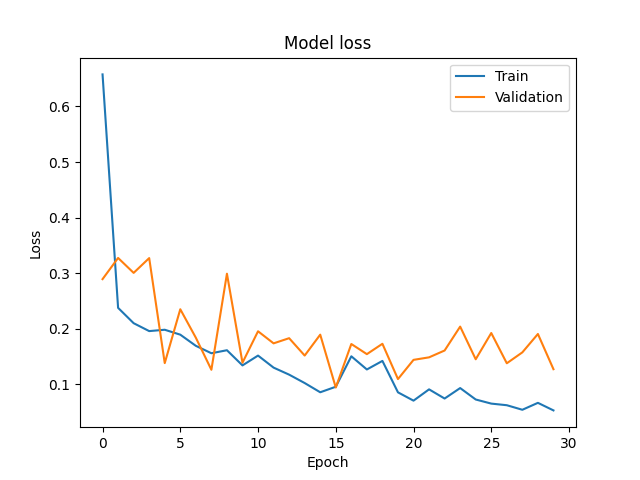
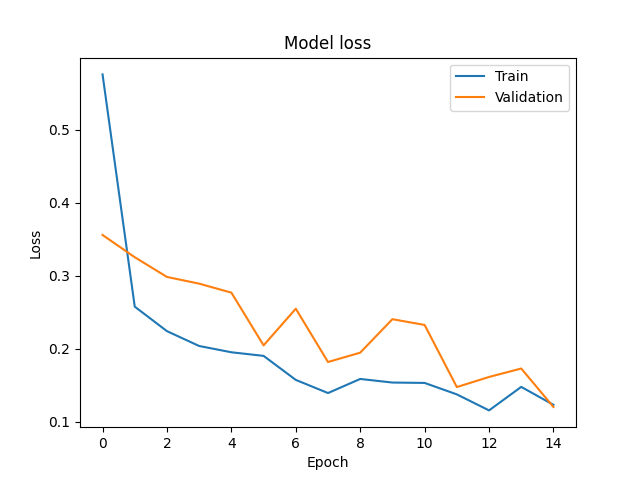
Hyperparameter tuning

diff --git a/binary_classification.py b/binary_classification.py
@@ -1,21 +1,21 @@
 import pandas as pd
 import numpy as np
 from tensorflow.keras.models import Sequential
-from tensorflow.keras.layers import Dense
+from tensorflow.keras.layers import Dense, Dropout
 from keras.optimizers import Adam
 import matplotlib.pyplot as plt
 from sklearn.utils.class_weight import compute_class_weight
 from sklearn.metrics import classification_report, confusion_matrix
 import seaborn as sns
-# from sklearn.ensemble import RandomForestClassifier
 
-NO_EPOCHS = 20
+NO_EPOCHS = 15
 BATCH_SIZE = 16
 LOSS = 'binary_crossentropy'
 LEARNING_RATE = 0.001
 METRICS = ['accuracy']
 ACTIVATION = ['relu', 'sigmoid']
 VERBOSE = 1
+DOPOUT_RATE = 0.2
 
 def generate_confusion_matrix(y_true, y_pred, filename):
     plt.clf()
@@ -30,9 +30,8 @@ def generate_confusion_matrix(y_true, y_pred, filename):
 def create_model(input_dim):
     model = Sequential()
     model.add(Dense(16, input_dim=input_dim, activation=ACTIVATION[0]))  # Input layer
-    model.add(Dense(32, activation=ACTIVATION[0]))  # Hidden layer
     model.add(Dense(16, activation=ACTIVATION[0]))  # Hidden layer
-    model.add(Dense(16, activation=ACTIVATION[0]))  # Hidden layer
+    model.add(Dropout(DOPOUT_RATE))  # Dropout layer
     model.add(Dense(1, activation=ACTIVATION[1]))  # Output layer
 
     model.compile(loss=LOSS, optimizer=Adam(learning_rate=LEARNING_RATE), metrics=METRICS)
@@ -82,7 +81,7 @@ def binary_classification(no_clusters, target_cluster, filename):
     model = create_model(60)
     model = train_model(no_clusters, target_cluster, model, x_train, y_train, x_val, y_val)
 
-    model.save(filename + 'binary_classif.h5')
+    model.save(filename + 'binary_classif.keras')
 
     loss, accuracy = model.evaluate(x_test, y_test, verbose=VERBOSE)
     print(f'Test Loss: {loss}, Test Accuracy: {accuracy}')
@@ -93,18 +92,20 @@ def binary_classification(no_clusters, target_cluster, filename):
     # Threshold predictions to convert probabilities to binary predictions
     binary_predictions = (predictions > 0.5).astype(int)
 
-    # Print classification report and confusion matrix
-    print("Classification Report:\n", classification_report(y_test, binary_predictions))
+    # Save classification report to a file
+    report = classification_report(y_test, binary_predictions, output_dict=True)
+    report_df = pd.DataFrame(report).transpose()
+    report_df.to_csv(filename + "classification_report.csv")
     
     generate_confusion_matrix(y_test, binary_predictions, filename + "confusion_matrix.png")
 
 
 
 if __name__ == '__main__':
-    binary_classification(4, 1, 'data_to_cluster/4_clusters/data_cluster_1/')
-    # for i in range(4, 7):
-    #     print(f'Building model for {i} clusters...')
+    # binary_classification(4, 1, 'data_to_cluster/4_clusters/data_cluster_1/')
+    for i in range(4, 7):
+        print(f'Building model for {i} clusters...')
         
-    #     for ii in range(0, i):
-    #         print(f'...building model for cluster {ii}...')
-    #         binary_classification(no_clusters, target_cluster, f'data_to_cluster/{i}_clusters/data_cluster_{ii}/')
+        for ii in range(0, i):
+            print(f'...building model for cluster {ii}...')
+            binary_classification(no_clusters, target_cluster, f'data_to_cluster/{i}_clusters/data_cluster_{ii}/')
